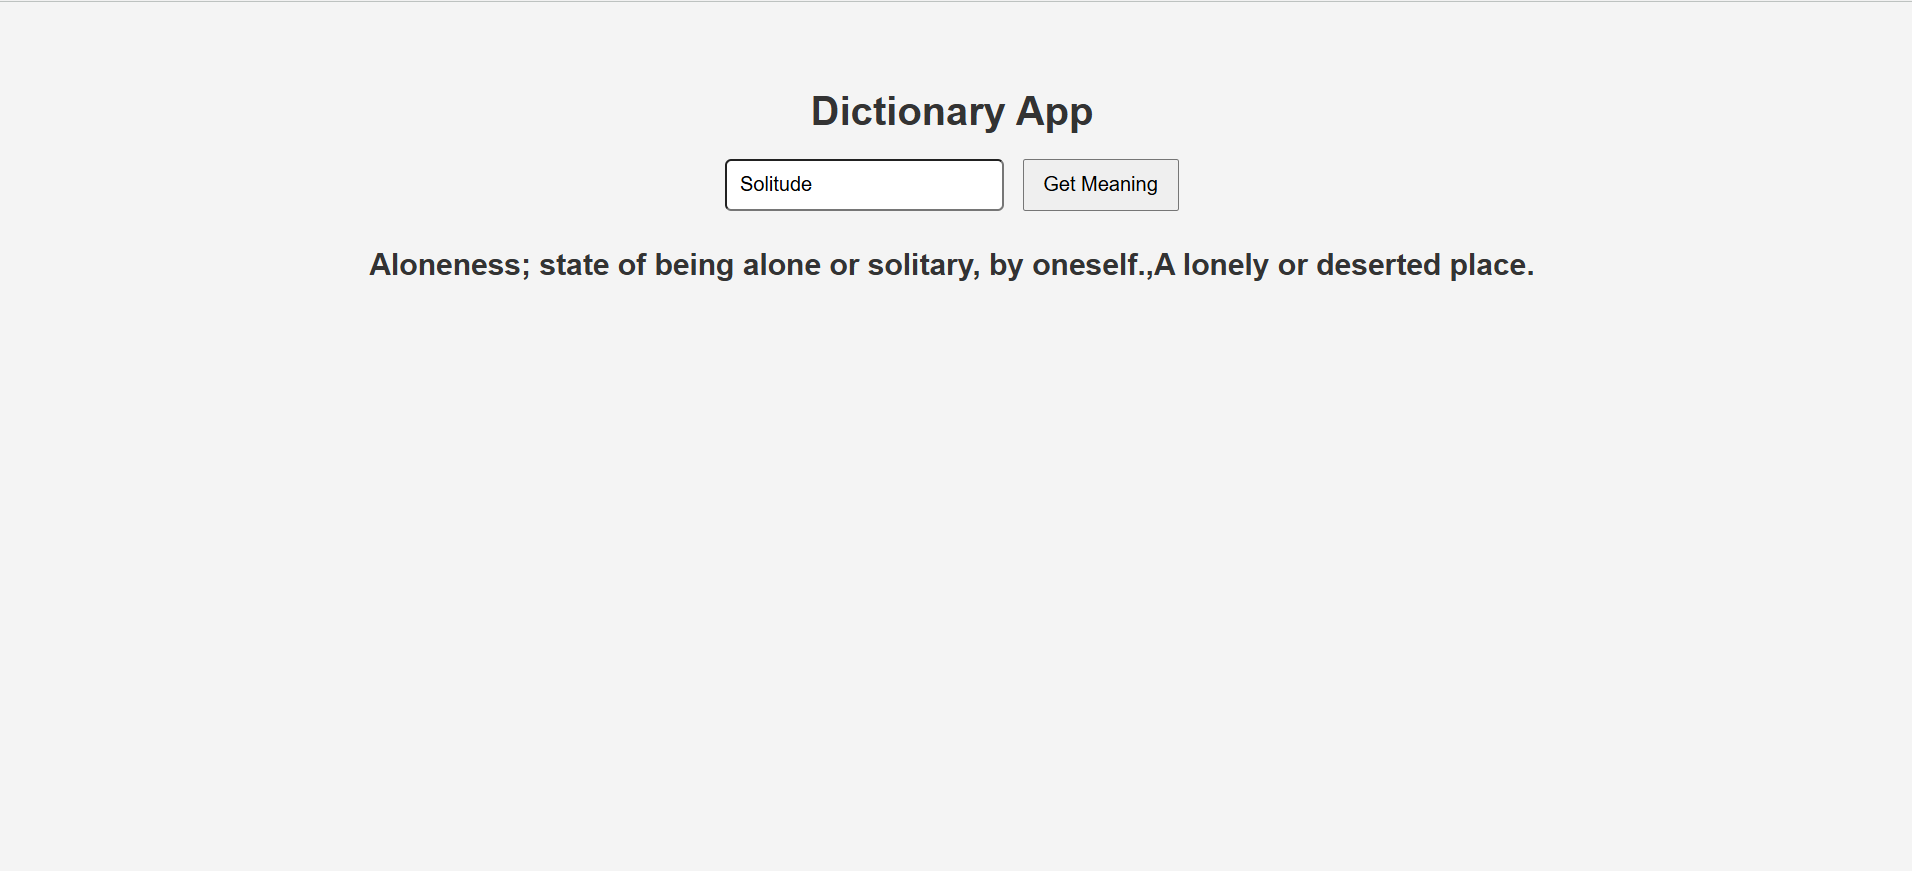
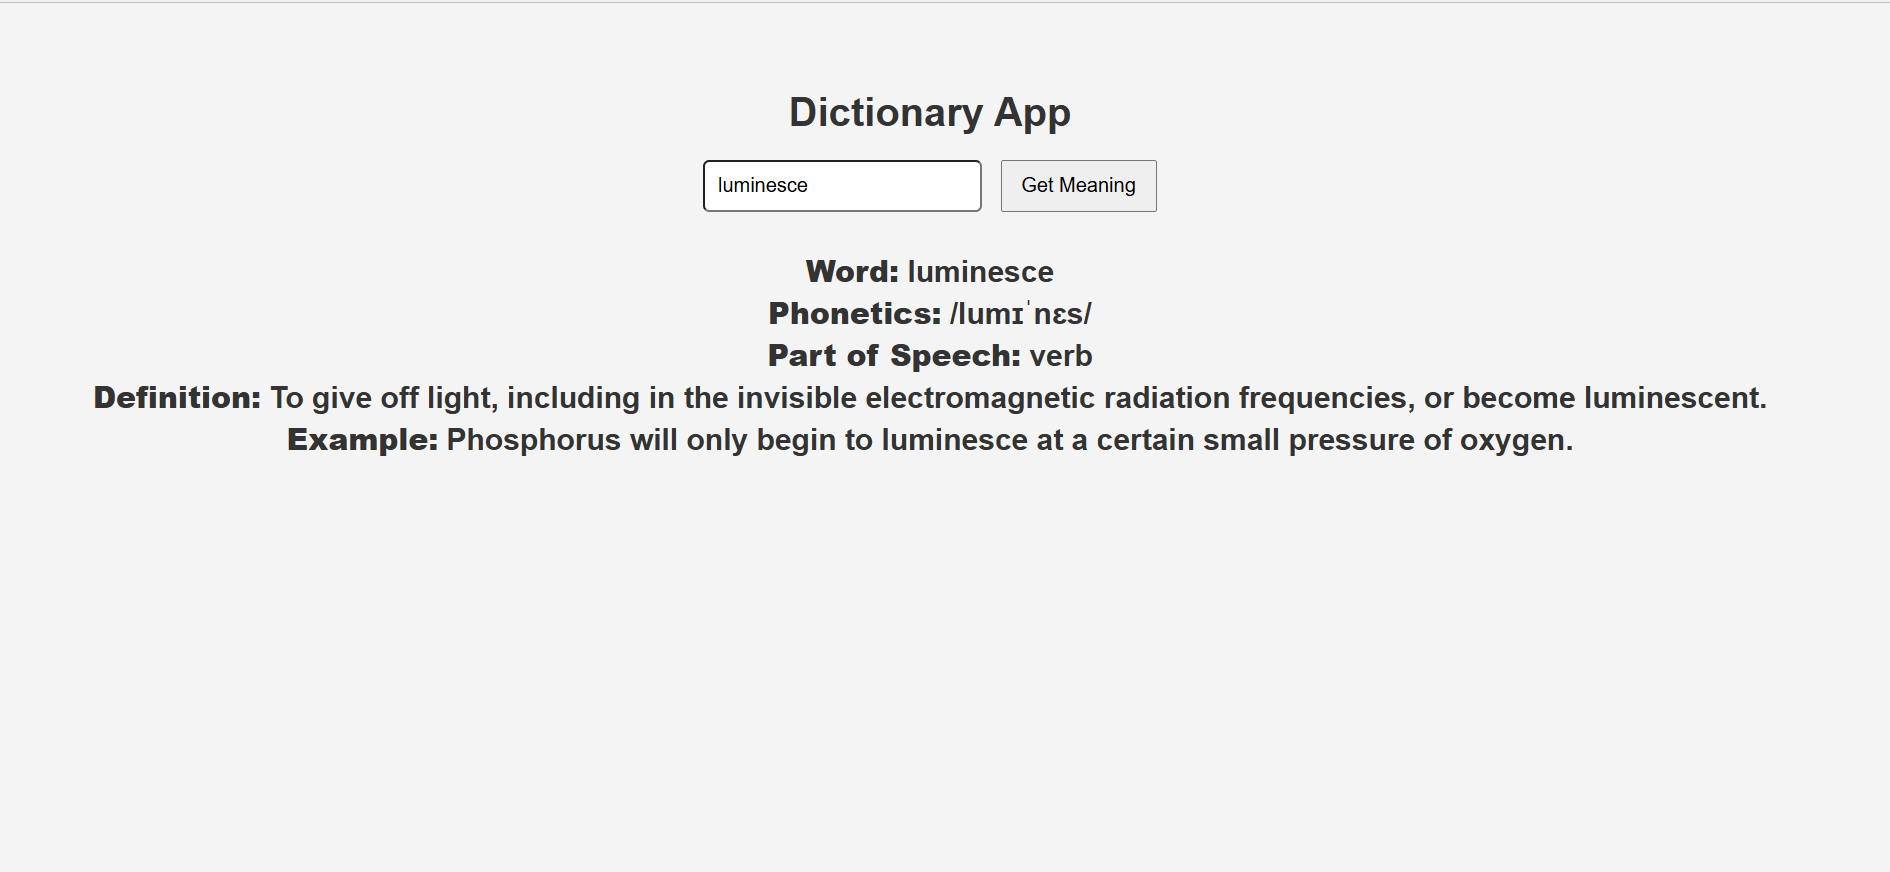
Added some new projects

diff --git a/index.html b/index.html
@@ -120,9 +120,9 @@ A simple calculator built using HTML, CSS, and JavaScript as part of the #100Dev
 											</ul>
 										</article>
 										<article>
-											<a href="https://github.com/absar22/Dictionary-App" class="image"><img src="images/Dic.png" alt="" /></a>
+											<a href="https://dicitonaryapp.netlify.app/" class="image"><img src="images/dic.png" alt="" /></a>
 											<h3>Dictionary-App</h3>
-											<p>Dictionary App is a simple and user-friendly web application that allows users to look up the meaning of any word instantly. Just enter a word in the input box and click “Get Meaning” — the app fetches the definition using a dictionary API and displays it on the page. It's a great tool for students, writers, and anyone curious about words!</p>
+											<p>Dictionary App: Discover the meaning of any word with ease using this interactive web application. Just enter your query, click "Get Meaning," and instantly view detailed definitions, phonetics, parts of speech, and examples, all fetched directly to your browser via a dictionary API. Perfect for students, writers, and anyone eager to expand their vocabulary!</p>
 											<ul class="actions">
 												<li><a href="https://github.com/absar22/Dictionary-App" class="button">More</a></li>
 											</ul>
